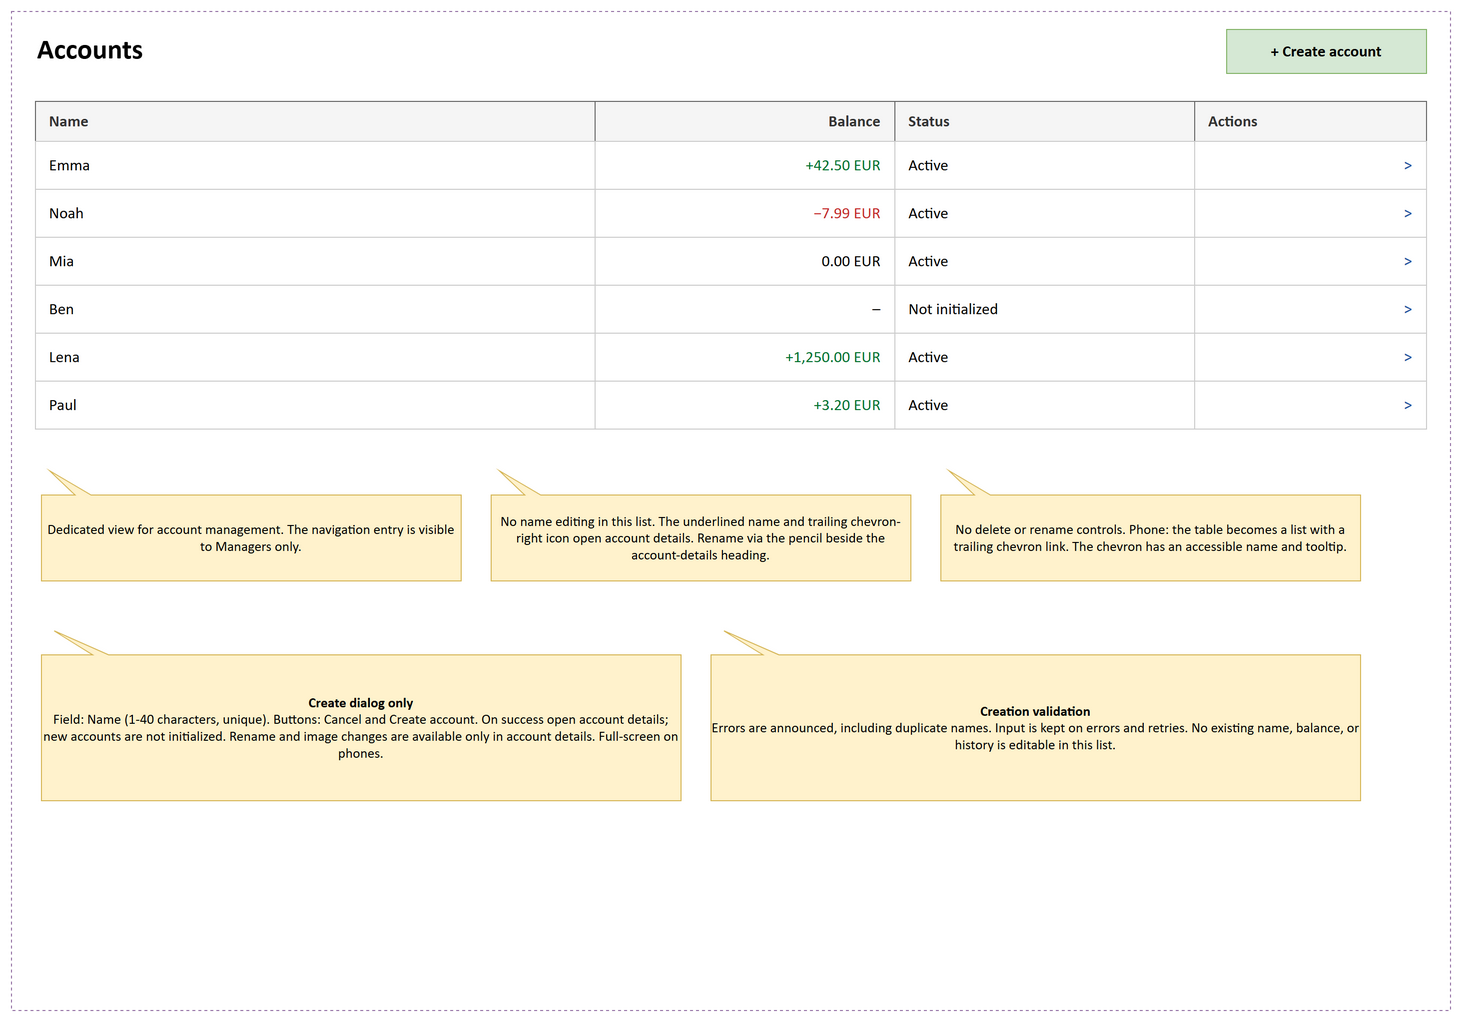
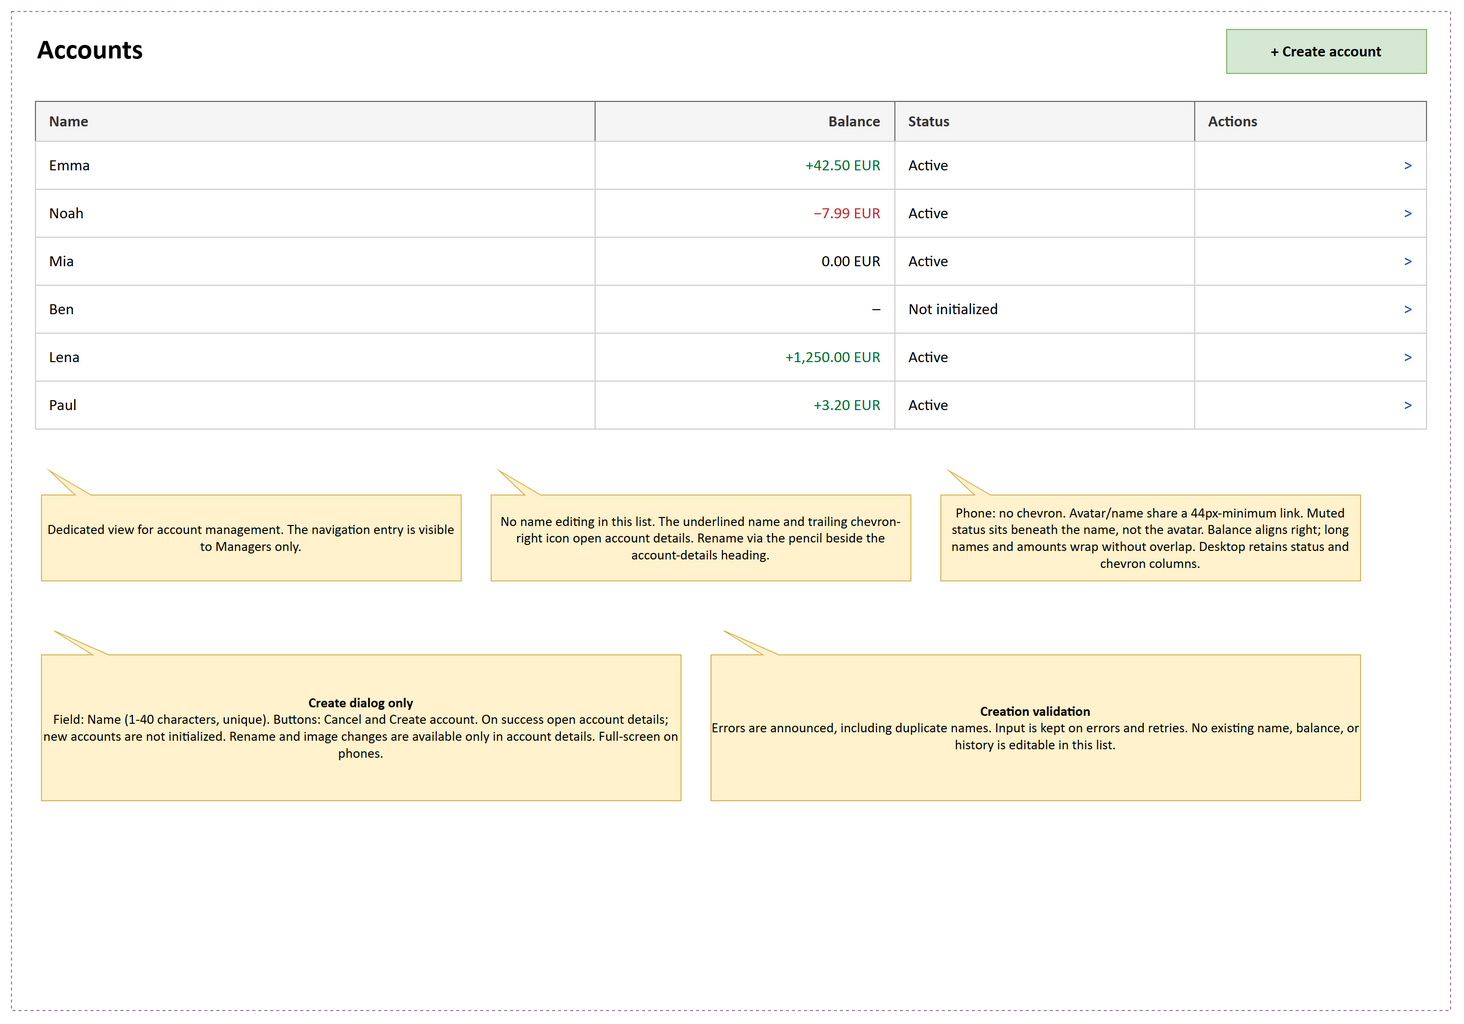
Improved rendering of accounts page

Changed region(s): [[0.6455, 0.5, 0.9221, 0.5625]]

diff --git a/docs/design/prototypes/accounts/index.html b/docs/design/prototypes/accounts/index.html
@@ -7,15 +7,19 @@
   <link rel="stylesheet" href="../../design-system/styles.css">
   <link rel="stylesheet" href="../shared/prototype.css">
   <style>
-    .name-cell { display: flex; align-items: center; gap: var(--space-4); font-weight: var(--weight-medium); }
+    .name-cell > a { display: flex; align-items: center; gap: var(--space-4); text-decoration: none; min-width: 0; }
+    .account-name { overflow-wrap: anywhere; text-decoration: underline; }
+    .mobile-status { display: none; }
     @media (max-width: 599px) {
       .table thead { display: none; }
-      .table tr { display: grid; grid-template-columns: 1fr auto; padding: 8px 0; border-bottom: 1px solid var(--border-subtle); }
-      .table td { border: 0; padding: 4px 8px; }
-      .table td.status { grid-column: 1; color: var(--text-secondary); font: var(--type-caption); }
-      .table td.numeric { grid-column: 2; grid-row: 1; }
-      .table td.actions-cell { grid-column: 2; grid-row: 2; text-align: end; }
-      .actions-cell .button-link span { display: none; }
+      .table tr { display: grid; grid-template-columns: minmax(0, 1fr) minmax(0, 40%); padding: var(--space-3) 0; border-bottom: 1px solid var(--border-subtle); }
+      .table td { border: 0; padding: var(--space-1) var(--space-2); min-width: 0; }
+      .name-cell > a { min-height: 44px; align-items: start; }
+      .name-cell .avatar { flex-shrink: 0; }
+      .account-identity { min-width: 0; }
+      .mobile-status { display: block; margin-top: var(--space-1); color: var(--text-secondary); font: var(--type-caption); }
+      .table td.numeric { grid-column: 2; grid-row: 1; overflow-wrap: anywhere; white-space: normal; }
+      .table td.status, .table td.actions-cell { display: none; }
     }
   </style>
 </head>
@@ -35,7 +39,7 @@
       const rows = PM.accountsByName().map(account => {
         const balance = PM.balance(account);
         return `<tr class="clickable" data-account="${account.id}">
-          <td><span class="name-cell">${PM.avatar(account, true)}<a href="../account-details/index.html?account=${account.id}">${PM.esc(account.name)}</a></span></td>
+          <td><span class="name-cell"><a href="../account-details/index.html?account=${account.id}" aria-label="${PM.esc(account.name)}">${PM.avatar(account, true)}<span class="account-identity"><span class="account-name">${PM.esc(account.name)}</span><span class="mobile-status">${PM.esc(balance === null ? PM.t('notInitialized') : PM.t('active'))}</span></span></a></span></td>
           <td class="numeric">${balance === null ? '–' : PM.amountHtml(balance)}</td>
           <td class="status">${PM.esc(balance === null ? PM.t('notInitialized') : PM.t('active'))}</td>
           <td class="actions-cell"><a class="icon-button" href="../account-details/index.html?account=${account.id}" aria-label="${PM.esc(PM.t('openNamed', { name: account.name }))}" title="${PM.esc(PM.t('openNamed', { name: account.name }))}">${PM.icon('right')}</a></td>

diff --git a/revamp/tests/e2e/specs/accounts.spec.ts b/revamp/tests/e2e/specs/accounts.spec.ts
@@ -298,6 +298,45 @@ for (const language of ['de', 'en'] as const) {
 
     await expect(page.getByTestId('account-row').getByRole('link', { name: 'N'.repeat(40), exact: true })).toBeVisible();
     expect(await page.evaluate(() => document.documentElement.scrollWidth <= innerWidth)).toBe(true);
+
+    if (test.info().project.name === 'mobile') {
+      const originalViewport = page.viewportSize();
+
+      for (const width of [320, 360]) {
+        await page.setViewportSize({ width, height: 800 });
+
+        const row = page.getByTestId('account-row');
+        const accountLink = row.getByRole('link', { name: 'N'.repeat(40), exact: true });
+
+        await expect(row.getByRole('link', { name: labels.open('N'.repeat(40)), exact: true })).toHaveCount(0);
+        await expect(accountLink.locator('.avatar')).toBeVisible();
+
+        const layout = await row.evaluate((element) => {
+          const link = element.querySelector('.name-cell > a')!.getBoundingClientRect();
+          const name = element.querySelector('.account-name')!.getBoundingClientRect();
+          const status = element.querySelector('.mobile-status')!.getBoundingClientRect();
+          const balance = element.querySelector('.numeric')!.getBoundingClientRect();
+
+          return {
+            targetHeight: link.height,
+            statusBelowName: status.top >= name.bottom,
+            statusAlignedWithName: Math.abs(status.left - name.left) < 1,
+            noOverlap: link.right <= balance.left,
+            noOverflow: document.documentElement.scrollWidth <= innerWidth,
+          };
+        });
+
+        expect(layout.targetHeight).toBeGreaterThanOrEqual(44);
+        expect(layout.statusBelowName).toBe(true);
+        expect(layout.statusAlignedWithName).toBe(true);
+        expect(layout.noOverlap).toBe(true);
+        expect(layout.noOverflow).toBe(true);
+        await page.screenshot({ path: test.info().outputPath(`accounts-${width}.png`), fullPage: true });
+      }
+
+      await page.setViewportSize(originalViewport!);
+    }
+
     await page.screenshot({ path: test.info().outputPath('accounts.png'), fullPage: true });
 
     await page.getByRole('button', { name: labels.create, exact: true }).click();

diff --git a/revamp/web/src/app/components/accounts/accounts.scss b/revamp/web/src/app/components/accounts/accounts.scss
@@ -1,16 +1,18 @@
-.name-cell {
+.name-cell > a {
   display: flex;
   align-items: center;
   gap: var(--space-4);
-  font-weight: var(--weight-medium);
+  min-width: 0;
+  text-decoration: none;
+}
 
-  > a {
-    overflow-wrap: anywhere;
-  }
+.account-name {
+  overflow-wrap: anywhere;
+  text-decoration: underline;
+}
 
-  > button {
-    flex-shrink: 0;
-  }
+.mobile-status {
+  display: none;
 }
 
 .row-actions {
@@ -19,8 +21,26 @@
 }
 
 @media (max-width: 599px) {
-  .status {
-    grid-column: 1;
+  .stack-table tr {
+    grid-template-columns: minmax(0, 1fr) minmax(0, 40%);
+  }
+
+  .stack-table td {
+    min-width: 0;
+  }
+
+  .name-cell > a {
+    min-height: 44px;
+    align-items: start;
+  }
+
+  .account-identity {
+    min-width: 0;
+  }
+
+  .mobile-status {
+    display: block;
+    margin-top: var(--space-1);
     font: var(--type-caption);
     color: var(--text-secondary);
   }
@@ -28,10 +48,12 @@
   .numeric {
     grid-column: 2;
     grid-row: 1;
+    overflow-wrap: anywhere;
+    white-space: normal;
   }
 
+  .status,
   .row-actions {
-    grid-column: 2;
-    grid-row: 2;
+    display: none;
   }
 }

diff --git a/revamp/web/src/app/components/accounts/accounts.html b/revamp/web/src/app/components/accounts/accounts.html
@@ -52,8 +52,13 @@
               <tr data-testid="account-row">
                 <td class="name">
                   <span class="name-cell">
-                    <span class="avatar small" aria-hidden="true">{{ account.name.charAt(0) }}</span>
-                    <a [routerLink]="['/accounts', account.id]">{{ account.name }}</a>
+                    <a [routerLink]="['/accounts', account.id]" [attr.aria-label]="account.name">
+                      <span class="avatar small" aria-hidden="true">{{ account.name.charAt(0) }}</span>
+                      <span class="account-identity">
+                        <span class="account-name">{{ account.name }}</span>
+                        <span class="mobile-status">{{ t(account.balance === null ? 'accounts.uninitialized' : 'accounts.active') }}</span>
+                      </span>
+                    </a>
                   </span>
                 </td>
                 <td class="numeric" [class]="account.balance | amountTone">

diff --git a/docs/design/README.md b/docs/design/README.md
@@ -15,7 +15,17 @@ with the same larger type.
 
 The Accounts and account-details layouts are approved: account
 renaming is available only through the Manager pencil beside the account-details
-heading. Lists have no rename control; their trailing chevron opens details.
+heading. Lists have no rename control; their desktop trailing chevron opens details.
+The mobile Accounts refinement was approved by the user on 2026-10-10: avatar
+and name share a minimum 44px-high link, muted status sits below the name, and
+balance remains right-aligned. Phones omit the duplicate chevron; long names and
+amounts wrap without overlap. The wireframe, prototype and implementation reflect
+this refinement. See [mobile account rows](design-system/components.md#mobile-account-rows).
+Verification: Angular and production-image builds passed; all four selected
+German/English desktop/mobile account workflows passed without retries, including
+320px and 360px tap-target, status-alignment and overflow assertions. Mobile
+screenshots were reviewed. Prototype checks covered both languages/themes at
+320px, 360px and 1440px, long names/amounts, Member guidance and keyboard navigation.
 View-level actions such as refresh align at the right edge of the view header;
 contextual actions stay beside their target. See the shared
 [view-header guidance](design-system/components.md#view-headers).
@@ -63,7 +73,7 @@ wireframe first, then a detailed click prototype.
 | --- | --- | --- | --- |
 | App shell | [draw.io source](wireframes/application-shell/application-shell-wireframe.drawio), [PNG preview](wireframes/application-shell/application-shell-wireframe.png) | Approved 2026-10-10, including footer refinements | [Shell](prototypes/application-shell/index.html) |
 | Accounts overview | [draw.io source](wireframes/accounts-overview/accounts-overview-wireframe.drawio), [PNG preview](wireframes/accounts-overview/accounts-overview-wireframe.png) | Approved 2026-10-10 | [Overview](prototypes/accounts-overview/index.html) |
-| Accounts | [draw.io source](wireframes/accounts/accounts-wireframe.drawio), [PNG preview](wireframes/accounts/accounts-wireframe.png) | Approved 2026-10-10 | [Accounts](prototypes/accounts/index.html) |
+| Accounts | [draw.io source](wireframes/accounts/accounts-wireframe.drawio), [PNG preview](wireframes/accounts/accounts-wireframe.png) | Approved 2026-10-10, including mobile identity/status grouping and removal of the mobile chevron | [Accounts](prototypes/accounts/index.html) |
 | Account details | [draw.io source](wireframes/account-details/account-details-wireframe.drawio), [PNG preview](wireframes/account-details/account-details-wireframe.png) | Approved 2026-10-10, including rename, refresh, spacing and navigation refinements | [Account details](prototypes/account-details/index.html) |
 | Administration: Profile | [draw.io source](wireframes/administration/administration-profile-wireframe.drawio), [PNG preview](wireframes/administration/administration-profile-wireframe.png) | Approved 2026-10-10 | [Administration](prototypes/administration/index.html) |
 | Administration: Users | [draw.io source](wireframes/administration/administration-users-wireframe.drawio), [PNG preview](wireframes/administration/administration-users-wireframe.png) | Approved 2026-10-10 | [Administration](prototypes/administration/index.html) |

diff --git a/docs/design/design-system/components.md b/docs/design/design-system/components.md
@@ -54,6 +54,17 @@ interaction requirements.
 - Confirm consequential departures, such as leaving an unsaved transaction form;
   cancelling preserves the entered data.
 
+## Mobile Account Rows
+
+- Below 600px, use two columns: identity on the left and balance on the right.
+- Avatar and underlined name share one link with a minimum 44px tap height.
+- Place muted caption-sized status beneath the name, aligned with the name rather
+  than the avatar. Long names wrap within the identity column.
+- Hide the duplicate chevron and separate status cells on phones. Desktop keeps
+  the status column and chevron action.
+- Bound the balance column so long amounts can wrap without overlapping names
+  or creating horizontal page overflow; never truncate a monetary value.
+
 ## Reference Lifecycle
 
 The [click prototypes](../prototypes/README.md) show these patterns per view;
